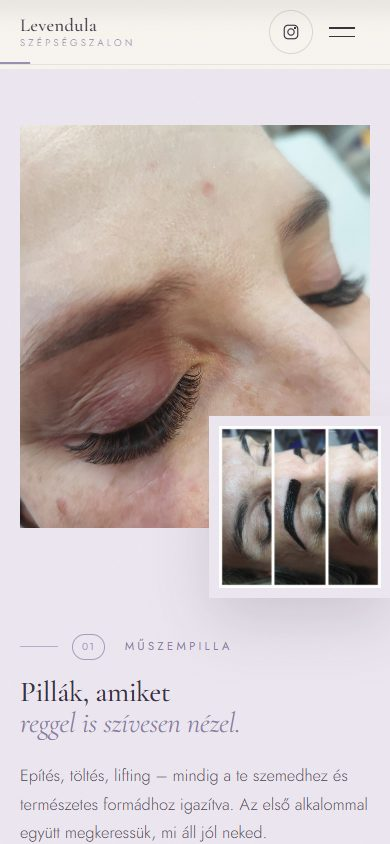
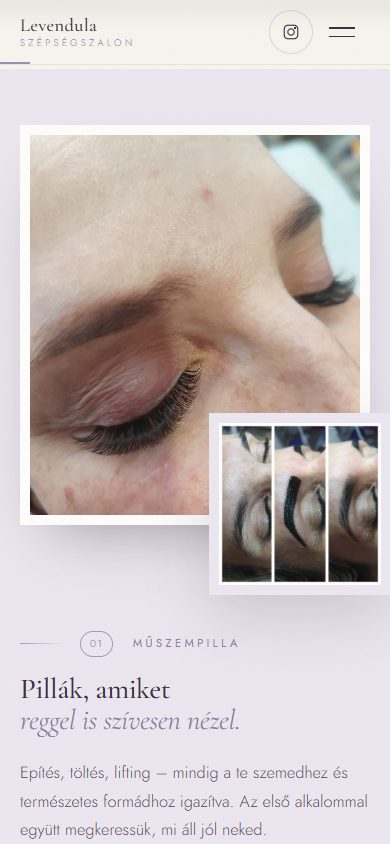
Vizuális erősítés: mélység, fények és premium mikro-részletek
- Hero: szerkesztői bal-párna csúszás + vignetta a képen, gradiens italic kiemelés a címben
- Szekcióritmus: radialis levendula mosások (árlista, oklevelek), gradiens átmenetek (szolgáltatások, instagram), contact glow
- Mélység: árlista-kártyák felül akcentus-vonallal + emelés hoverben, keretek árnyékokkal (pillafotó, about-fotó, UV-LED keret)
- Hoverok: szolgáltatás-sor gradiens + bal akcentus-sáv, ig-tile alulról sötétülő overlay, footer-linkek aláhúzás
- Gombok: belső fény + külső árnyék; trust-strip kis gradiens akcentus-vonalak; marquee gradiens + glow gyémántok
- Részletek: gradiens scrollbar, eybrow gradiens-vonal, badge üveg hatás, DAEKON kredit aláhúzás él
- Újrafotózott _shots galéria (16 keret)

🤖 Generated with Codebuff

diff --git a/styles.css b/styles.css
@@ -47,6 +47,11 @@ figure{margin:0}
 h1,h2,h3,h4{margin:0; font-family:var(--serif); font-weight:500; line-height:1.08; letter-spacing:-.01em}
 p{margin:0}
 ::selection{background:var(--lav); color:var(--char)}
+html{scrollbar-color:var(--lav-deep) var(--ivory-2); scrollbar-width:thin}
+::-webkit-scrollbar{width:11px; height:11px}
+::-webkit-scrollbar-track{background:var(--ivory-2)}
+::-webkit-scrollbar-thumb{background:linear-gradient(var(--lav-deep),#6E5F87); border:3px solid var(--ivory-2); border-radius:100px}
+::-webkit-scrollbar-thumb:hover{background:var(--plum-soft)}
 :focus-visible{outline:2px solid var(--lav-deep); outline-offset:3px}
 
 /* film-grain paper texture over the whole page */
@@ -82,7 +87,7 @@ body::after{
   color:var(--lav-deep);
   margin-bottom:clamp(16px,2.5vw,26px);
 }
-.eyebrow::before{content:""; width:38px; height:1px; background:currentColor; opacity:.55; flex:none}
+.eyebrow::before{content:""; width:46px; height:1px; background:linear-gradient(90deg, currentColor, transparent); opacity:.7; flex:none}
 .eyebrow b{
   font-weight:400; font-size:.64rem; letter-spacing:.1em;
   padding:4px 9px 3px; border:1px solid currentColor; border-radius:100px;
@@ -92,6 +97,10 @@ body::after{
 h1{font-size:clamp(2.25rem, 5.2vw, 4.35rem); line-height:1.05; letter-spacing:-.014em}
 h2{font-size:clamp(1.8rem, 3.7vw, 3.1rem); line-height:1.09; letter-spacing:-.012em}
 h1 em,h2 em{font-style:italic; font-weight:400; color:var(--lav-deep)}
+.hero-text h1 em{
+  background:linear-gradient(115deg, var(--lav-deep) 8%, #6E5F87 52%, var(--plum-soft) 100%);
+  -webkit-background-clip:text; background-clip:text; color:transparent;
+}
 .uvled h1 em,.uvled h2 em,.contact h2 em{color:var(--lav)}
 .body-lg{font-size:clamp(1.02rem,1.35vw,1.16rem); line-height:1.75; color:var(--plum-soft); max-width:56ch}
 .section-lead{margin-top:18px; color:var(--plum-soft); max-width:58ch; font-size:1.02rem}
@@ -114,6 +123,7 @@ h1 em,h2 em{font-style:italic; font-weight:400; color:var(--lav-deep)}
 .btn-sm{padding:11px 22px; font-size:.8rem}
 .btn-solid{
   background-color:var(--plum); color:var(--ivory);
+  box-shadow:inset 0 1px 0 rgba(248,244,238,.14), 0 16px 32px -18px rgba(42,36,49,.55);
   background-image:linear-gradient(var(--lav-deep),var(--lav-deep));
   background-repeat:no-repeat; background-position:left bottom; background-size:100% 0%;
   transition:background-size .5s var(--ease), transform .35s var(--ease), color .35s var(--ease);
@@ -123,6 +133,7 @@ h1 em,h2 em{font-style:italic; font-weight:400; color:var(--lav-deep)}
 .btn-ghost:hover{border-color:var(--plum); background:rgba(55,47,62,.06)}
 .btn-light{
   background-color:var(--ivory); color:var(--plum);
+  box-shadow:0 16px 32px -18px rgba(42,36,49,.5);
   background-image:linear-gradient(var(--lav),var(--lav));
   background-repeat:no-repeat; background-position:left bottom; background-size:100% 0%;
   transition:background-size .5s var(--ease), transform .35s var(--ease), color .35s var(--ease);
@@ -250,9 +261,16 @@ body.menu-open .mobile-menu{opacity:1; visibility:visible; pointer-events:auto; 
   display:flex; flex-direction:column;
 }
 .hero-media picture{flex:1; min-height:440px; display:block; position:relative; overflow:hidden}
+.hero-media picture::after{
+  content:""; position:absolute; inset:0; pointer-events:none;
+  background:
+    linear-gradient(90deg, rgba(248,244,238,.5) 0%, rgba(248,244,238,0) 24%),
+    radial-gradient(130% 130% at 50% 38%, rgba(42,36,49,0) 52%, rgba(42,36,49,.24) 100%);
+}
 .hero-media img{
   position:absolute; inset:0; width:100%; height:100%; object-fit:cover;
   object-position:76% 64%;
+  filter:saturate(.94) contrast(1.05) brightness(1.01);
   transform:scale(1.3); animation:heroZoom 2.6s var(--ease) .1s forwards;
 }
 @keyframes heroZoom{to{transform:scale(1.26)}}
@@ -267,15 +285,22 @@ body.menu-open .mobile-menu{opacity:1; visibility:visible; pointer-events:auto; 
   border-top:1px solid var(--line);
   margin-top:clamp(24px,3.4vh,42px);
 }
-.trust-item{padding:26px clamp(14px,2vw,28px) 34px; border-right:1px solid var(--line-soft)}
+.trust-item{position:relative; padding:32px clamp(14px,2vw,28px) 34px; border-right:1px solid var(--line-soft)}
+.trust-item::before{
+  content:""; position:absolute; top:0; left:clamp(14px,2vw,28px);
+  width:36px; height:2px;
+  background:linear-gradient(90deg, var(--lav-deep), var(--lav));
+}
 .trust-item:first-child{padding-left:0}
+.trust-item:first-child::before{left:0}
 .trust-item:last-child{border-right:none}
 .trust-item h3{font-size:1.14rem; margin-bottom:6px}
 .trust-item p{font-size:.86rem; line-height:1.55; color:var(--plum-soft)}
 
 /* services marquee band */
 .marquee{
-  overflow:hidden; background:var(--plum); color:rgba(248,244,238,.9);
+  overflow:hidden; color:rgba(248,244,238,.92);
+  background:linear-gradient(90deg, #332B3C 0%, #4B3F58 50%, #332B3C 100%);
   padding:17px 0; margin-top:clamp(30px,4.4vh,54px);
 }
 .marquee-track{display:flex; width:max-content; animation:mq 46s linear infinite}
@@ -284,7 +309,7 @@ body.menu-open .mobile-menu{opacity:1; visibility:visible; pointer-events:auto; 
   font-size:.76rem; font-weight:300; letter-spacing:.3em;
   text-transform:uppercase; white-space:nowrap;
 }
-.marquee i{width:6px; height:6px; background:var(--lav); transform:rotate(45deg); flex:none}
+.marquee i{width:6px; height:6px; background:var(--lav); transform:rotate(45deg); flex:none; box-shadow:0 0 10px rgba(201,188,216,.8)}
 @keyframes mq{to{transform:translateX(-50%)}}
 
 /* ============================================================
@@ -296,7 +321,7 @@ body.menu-open .mobile-menu{opacity:1; visibility:visible; pointer-events:auto; 
   gap:clamp(36px,6vw,80px); align-items:center;
 }
 .lashes-media{position:relative; padding-bottom:110px}
-.lm-main{overflow:hidden}
+.lm-main{overflow:hidden; border:10px solid var(--paper); box-shadow:0 32px 64px -32px rgba(42,36,49,.45)}
 .lm-main img{width:100%; aspect-ratio:4/4.6; object-fit:cover; transition:transform 1.2s var(--ease)}
 .lm-main:hover img{transform:scale(1.035)}
 .lm-sub{
@@ -335,6 +360,8 @@ body.menu-open .mobile-menu{opacity:1; visibility:visible; pointer-events:auto; 
 }
 .badge{
   display:inline-block; margin-bottom:22px;
+  background:rgba(201,188,216,.09);
+  backdrop-filter:blur(4px); -webkit-backdrop-filter:blur(4px);
   padding:7px 18px; border:1px solid rgba(201,188,216,.5); border-radius:100px;
   font-size:.7rem; letter-spacing:.3em; text-transform:uppercase; color:var(--lav);
 }
@@ -344,6 +371,7 @@ body.menu-open .mobile-menu{opacity:1; visibility:visible; pointer-events:auto; 
   position:relative;
   border:1px solid rgba(201,188,216,.4);
   padding:10px;
+  box-shadow:0 36px 72px -36px rgba(0,0,0,.65);
 }
 .uvled-media::after{
   content:""; position:absolute; inset:10px;
@@ -355,7 +383,7 @@ body.menu-open .mobile-menu{opacity:1; visibility:visible; pointer-events:auto; 
 /* ============================================================
    SERVICES INDEX
    ============================================================ */
-.services{padding:clamp(56px,7.5vw,108px) 0; position:relative}
+.services{padding:clamp(56px,7.5vw,108px) 0; position:relative; background:linear-gradient(180deg, var(--ivory) 0%, var(--ivory) 55%, var(--ivory-2) 100%)}
 .service-index{border-top:1px solid var(--line)}
 .service-row{
   display:grid;
@@ -365,7 +393,10 @@ body.menu-open .mobile-menu{opacity:1; visibility:visible; pointer-events:auto; 
   border-bottom:1px solid var(--line);
   transition:background .4s var(--ease), padding .4s var(--ease);
 }
-.service-row:hover{background:rgba(236,230,240,.55)}
+.service-row:hover{
+  background:linear-gradient(90deg, rgba(230,222,238,.95), rgba(236,230,240,.18) 72%, rgba(236,230,240,0));
+  box-shadow:inset 3px 0 0 var(--lav-deep);
+}
 .srv-num{font-family:var(--serif); font-style:italic; font-size:1.06rem; letter-spacing:.04em; color:var(--lav-deep)}
 .srv-name{
   font-family:var(--serif); font-size:clamp(1.3rem,2.2vw,1.85rem); font-weight:500;
@@ -399,7 +430,7 @@ body.menu-open .mobile-menu{opacity:1; visibility:visible; pointer-events:auto; 
   display:grid; grid-template-columns:.9fr 1.1fr;
   gap:clamp(36px,6vw,84px); align-items:center;
 }
-.about-media img{width:100%; aspect-ratio:1/1.06; object-fit:cover}
+.about-media img{width:100%; aspect-ratio:1/1.06; object-fit:cover; border:8px solid var(--paper); box-shadow:0 34px 66px -34px rgba(42,36,49,.45)}
 .about-media figcaption{
   margin-top:14px; font-size:.72rem; letter-spacing:.22em;
   text-transform:uppercase; color:var(--plum-soft);
@@ -415,7 +446,7 @@ body.menu-open .mobile-menu{opacity:1; visibility:visible; pointer-events:auto; 
 /* ============================================================
    QUALIFICATIONS
    ============================================================ */
-.quals{padding:clamp(56px,7.5vw,108px) 0}
+.quals{padding:clamp(56px,7.5vw,108px) 0; background:radial-gradient(95% 65% at 50% 105%, rgba(201,188,216,.26), rgba(201,188,216,0) 70%)}
 .cert-strip{
   display:grid; grid-template-columns:repeat(6,1fr);
   gap:clamp(12px,1.6vw,22px); align-items:start;
@@ -450,10 +481,10 @@ body.menu-open .mobile-menu{opacity:1; visibility:visible; pointer-events:auto; 
   grid-auto-rows:clamp(170px,17vw,232px);
   gap:clamp(10px,1.4vw,18px);
 }
-.gallery figure{position:relative; overflow:hidden; background:var(--lav-soft)}
+.gallery figure{position:relative; overflow:hidden; background:var(--lav-soft); border:1px solid rgba(55,47,62,.12)}
 .gallery .g-tall{grid-row:span 2}
 .gallery .g-wide{grid-column:span 2}
-.gallery img{width:100%; height:100%; object-fit:cover; filter:saturate(.92); transition:transform 1.1s var(--ease), filter .6s}
+.gallery img{width:100%; height:100%; object-fit:cover; filter:saturate(.96) contrast(1.03); transition:transform 1.1s var(--ease), filter .6s}
 .gallery figure:hover img{transform:scale(1.05); filter:saturate(1)}
 .gallery figcaption{
   position:absolute; left:0; right:0; bottom:0;
@@ -469,16 +500,23 @@ body.menu-open .mobile-menu{opacity:1; visibility:visible; pointer-events:auto; 
 /* ============================================================
    PRICE LIST
    ============================================================ */
-.prices{padding:clamp(56px,7.5vw,108px) 0}
+.prices{padding:clamp(56px,7.5vw,108px) 0; background:radial-gradient(110% 72% at 88% 0%, rgba(201,188,216,.3), rgba(201,188,216,0) 60%), var(--ivory)}
 .price-grid{
   display:grid; grid-template-columns:1fr 1fr;
   gap:clamp(34px,4.5vw,64px) clamp(40px,6vw,96px);
 }
 .price-block{
+  position:relative; overflow:hidden;
   background:var(--paper);
   border:1px solid var(--line-soft);
   padding:clamp(22px,2.6vw,36px) clamp(20px,2.5vw,34px) clamp(24px,2.8vw,38px);
-  box-shadow:0 18px 44px rgba(42,36,49,.05);
+  box-shadow:0 26px 56px -28px rgba(42,36,49,.3);
+  transition:transform .5s var(--ease), box-shadow .5s var(--ease);
+}
+.price-block:hover{transform:translateY(-4px); box-shadow:0 38px 72px -30px rgba(42,36,49,.38)}
+.price-block::before{
+  content:""; position:absolute; top:0; left:0; right:0; height:3px;
+  background:linear-gradient(90deg, var(--lav-deep), var(--lav) 55%, rgba(201,188,216,0));
 }
 .price-block h3{
   font-size:1.3rem; margin-bottom:14px; padding-bottom:11px;
@@ -516,9 +554,16 @@ body.menu-open .mobile-menu{opacity:1; visibility:visible; pointer-events:auto; 
 }
 .price-block li.is-new>span{color:var(--lav-deep)}
 .price-cta{
+  position:relative; overflow:hidden;
   background:var(--plum); color:var(--ivory);
+  background-image:radial-gradient(130% 110% at 100% 0%, rgba(139,123,166,.55), rgba(139,123,166,0) 55%);
   padding:clamp(30px,3.2vw,46px);
   align-self:start;
+  box-shadow:0 28px 58px -28px rgba(42,36,49,.55);
+}
+.price-cta::before{
+  content:""; position:absolute; top:0; left:0; right:0; height:3px;
+  background:linear-gradient(90deg, var(--lav), rgba(201,188,216,0));
 }
 .price-cta h3{font-size:1.3rem; margin-bottom:12px; border:none; padding:0; color:var(--ivory)}
 .price-cta p{font-size:.94rem; color:rgba(248,244,238,.72); margin-bottom:24px; max-width:40ch}
@@ -551,7 +596,7 @@ body.menu-open .mobile-menu{opacity:1; visibility:visible; pointer-events:auto; 
 /* ============================================================
    INSTAGRAM
    ============================================================ */
-.instagram{padding:clamp(56px,7.5vw,108px) 0}
+.instagram{padding:clamp(56px,7.5vw,108px) 0; background:linear-gradient(180deg, var(--ivory) 0%, #F0EAF4 100%)}
 .ig-head{margin-bottom:clamp(30px,4vw,50px); position:relative}
 .ig-handle{
   display:inline-block; margin-top:20px;
@@ -564,13 +609,19 @@ body.menu-open .mobile-menu{opacity:1; visibility:visible; pointer-events:auto; 
 .ig-grid{display:grid; grid-template-columns:repeat(3,1fr); gap:clamp(12px,1.4vw,20px)}
 .ig-grid a{position:relative; overflow:hidden; display:block; aspect-ratio:4/3; background:var(--lav-soft)}
 .ig-grid img{width:100%; height:100%; object-fit:cover; transition:transform .9s var(--ease), filter .5s}
+.ig-grid a::before{
+  content:""; position:absolute; inset:0; z-index:1;
+  background:linear-gradient(to top, rgba(42,36,49,.55), rgba(42,36,49,0) 55%);
+  opacity:0; transition:opacity .4s var(--ease);
+}
 .ig-grid a::after{
-  content:"↗"; position:absolute; top:8px; right:10px;
+  content:"↗"; position:absolute; top:8px; right:10px; z-index:2;
   color:#fff; font-size:.95rem; opacity:0; transform:translateY(-4px);
   transition:opacity .4s, transform .4s;
   text-shadow:0 1px 8px rgba(0,0,0,.5);
 }
 .ig-grid a:hover img{transform:scale(1.07)}
+.ig-grid a:hover::before{opacity:1}
 .ig-grid a:hover::after{opacity:1; transform:none}
 
 /* ============================================================
@@ -580,6 +631,12 @@ body.menu-open .mobile-menu{opacity:1; visibility:visible; pointer-events:auto; 
   background:var(--char); color:var(--ivory);
   padding:clamp(60px,8vw,116px) 0 clamp(74px,9vw,136px);
   position:relative; overflow:hidden;
+}
+.contact::before{
+  content:""; position:absolute; top:-22%; left:-8%;
+  width:46vw; height:46vw; max-width:620px; max-height:620px;
+  background:radial-gradient(circle, rgba(139,123,166,.32) 0%, rgba(139,123,166,0) 65%);
+  pointer-events:none;
 }
 .contact::after{
   content:"Levendula"; position:absolute; left:0; right:0; bottom:-.16em;
@@ -618,7 +675,13 @@ body.menu-open .mobile-menu{opacity:1; visibility:visible; pointer-events:auto; 
 .footer-brand .brand-sub{color:rgba(248,244,238,.55); letter-spacing:.2em}
 .footer-addr{font-size:.84rem; letter-spacing:.03em}
 .footer-links{display:flex; gap:22px; font-size:.84rem; letter-spacing:.05em}
-.footer-links a{transition:color .3s}
+.footer-links a{position:relative; transition:color .3s}
+.footer-links a::after{
+  content:""; position:absolute; left:0; right:0; bottom:-4px; height:1px;
+  background:currentColor; transform:scaleX(0); transform-origin:right;
+  transition:transform .35s var(--ease);
+}
+.footer-links a:hover::after{transform:scaleX(1); transform-origin:left}
 .footer-links a:hover{color:var(--ivory)}
 .footer-copy{
   font-size:.74rem; letter-spacing:.08em; color:rgba(248,244,238,.42);
